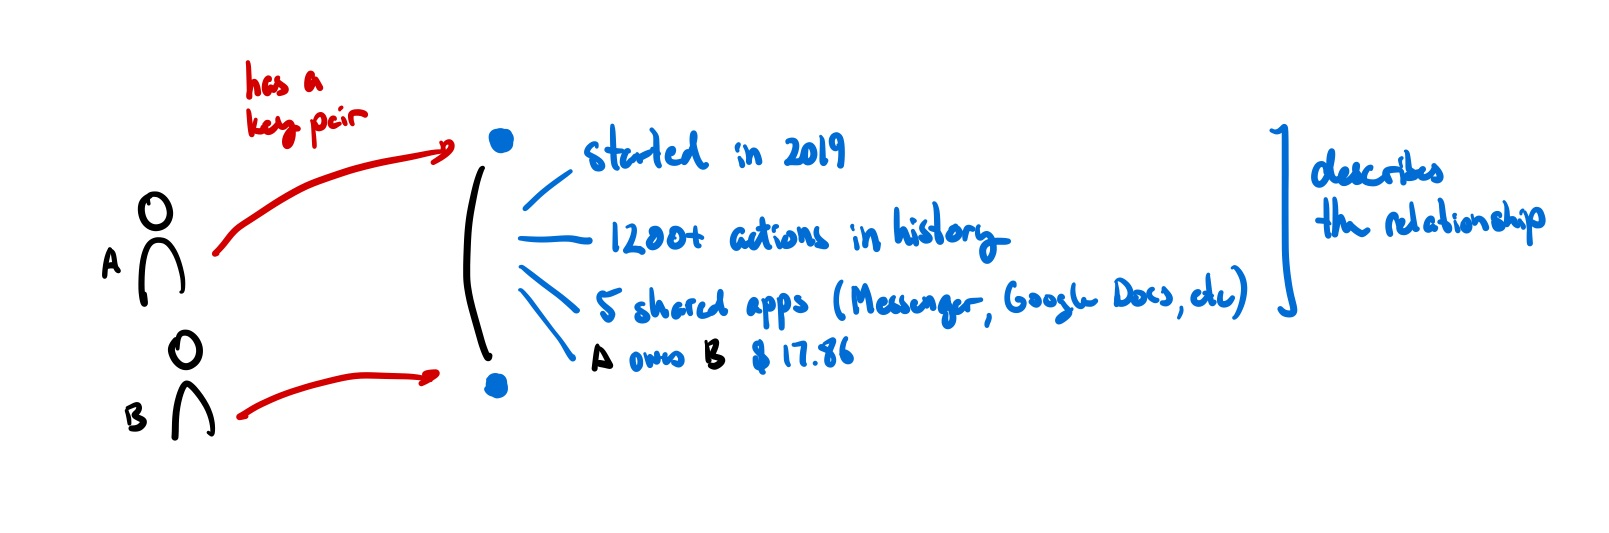
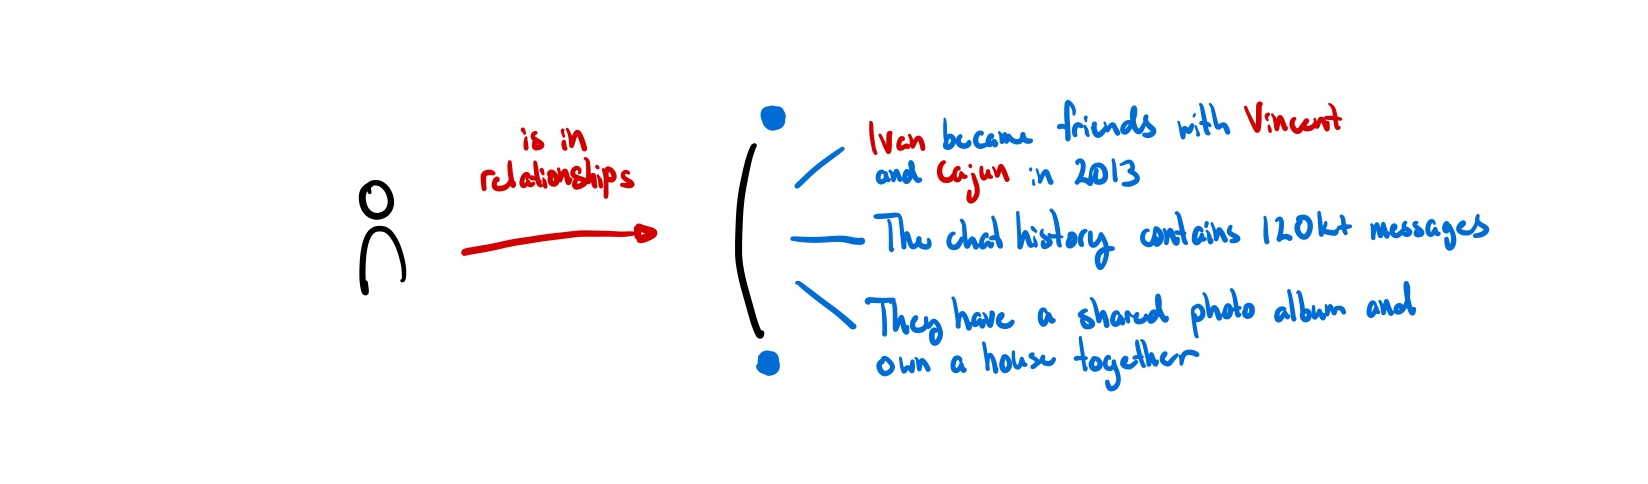
update identity post draft

diff --git a/content/posts/relational-identity.md b/content/posts/relational-identity.md
@@ -7,103 +7,97 @@ tags:
 
 *What is identity? Who defines it? Who controls it? What is its relationship to software?*
 
-Defined roughly, identity is something that is contextual, situationally adaptive, subjective, and constantly changing.
+Software developers and computer scientists have been tackling identity for almost half a century now, trying to model identity in ways that are understandable to machines. Different models seek to emulate different aspects of the identity.
 
-It is made up of qualities, beliefs, personality quirks, traits, and relationships that make you *you*. Yet when we gesture towards digital identity, it seems to point towards not this subjective and contextual set of relationships, but something else entirely.
+But for engineers building these digital identities, the primary focus is on *legibility*: the process of simplifying, labelling, and modelling. ISO/IEC 24760-1, the *only* formal international standard for identity, sees identity as a set of attributes to be managed[^1]. 
+
+Legibility on its own is not a bad thing. It’s how Google assembles droves of information on the web so we can search through it easily. It’s how we have transparency into the progress of public projects and initiatives by our governments.
+
+But this process of legibility becomes dangerous when it is forced upon users. When legibility becomes the lens you view the world through, relationships are front-run by a deluge of data rather than formed more organically between individuals[^2]. We emerge in a world that comes straight from Black Mirror's Nosedive episode where everyone’s status is determined by a ‘social media score’. This systemized legibility of the world is an interpretive and transformational force that changes how we perceive others in ways that feel flat and transactional[^3].
+
+In the process of legibility, nuance is excluded. Legibility means that ‘only what matters’ and can be quantified is kept; all else is discarded. This is extremely dangerous when that legibility happens without the choice of the users.
+
+![[thoughts/images/forest death.png]]*Illegible natural forest vs legible "scientific" forest (James C. Scott in Gordon Brander)[^4-1]*
+
+Forced legibility may look like a passing or failing grade in a class without an accompanying note explaining how you missed the final because you needed to grieve for the death of a loved one. Forced legibility may look like a conviction charge without the context behind how the officer was racially motivated. When legibility is forced upon people, it only serves to widen the gulf that already exists in society and disproportionately impacts marginalized groups[^2]. This legibility is beneficial for companies and governments seeking to better model users and data, but it doesn’t serve users who seek to govern their own identities and control who accesses their information.
+
+I want to live in a world where it is possible to have different levels of granularity of information that is made legible for a messaging app versus a government portal versus interacting with my employer. With the way the web is set up currently, these are difficult to separate.
+
+If we want to flip access control back to the users, we need to consider other representations of identity. Clearly, it doesn't make sense to try to make every part of our digital identities legible. **Can we develop alternate systems that provide rich models of identity that allow people to be illegible? Or at least self-selectively legible?**
+
+This essay seeks to explore alternate abstractions for identity to better resolve the identity needs of *all* relevant stakeholders, not just centralized providers. We can categorize digital identity models based on the primary representation of identity along with the locus of control (managed versus self-sovereign).
+
+|Identity as...|Managed|Self-sovereign|
+|-|-|-|
+|Attributes|Video game character, e-shopping account, TikTok|Verifiable Claims, NFTs|
+|Capabilities|IAM (Identity and Access Management)|OAuth Tokens, UCANs|
+|Relationships|Messenger, Whatsapp|???|
+*Fig 1: Different models of digital identity.*
+
+What are ways we can lean towards self-sovereign models of identity? How do we give users freedom to choose how legible they are online?
+
+To do so, let us explore what managed identity even is first.
 
 ## Identity as Attributes
 
-![[thoughts/images/identity-object.png]]
+![[thoughts/images/identity-attribute.png]]
+Our digital representations consist of:
+-   What we bought last time we visited Amazon;
+-   All the files you’ve uploaded to Google Drive;
+-   Google Analytics data points about what pages we visited and when;
+-   What type of videos we watched on TikTok over the past week.
 
-Software developers and computer scientists have been tackling this for almost half a century now, trying to model identity in ways that are understandable to machines, but in doing so, forget the very nature of identity we live out in the real world.
+Most data models default to this assumption of identity as objects with attributes. Almost all programming languages model things, including people, this way. Databases are similar, either being documents with attributes or rows in a table. Relations are encoded as references to other documents, not as things in and of themselves.
 
-Our digital representations consist of
-- What we bought last time we visited Amazon.
-- All of our Facebook, Instagram, and Twitter posts.
-- Google Analytics data points about what pages we visited and when.
-- The hundreds, maybe thousands, of online accounts you have scattered around the internet, made hastily so you can access an article, use a service, or leave a review.
+When we model identity as a collection of attributes, all aspects of identity are, by default, quantifiable and measurable.
 
-Notice that in this form, all aspects of identity are quantifiable. Identity, in this model, is a thing to be managed, sold, or searched for. Links and relations in this model are secondary, expressed as joins between tables in databases or identifying users through 'unique' identifiers like email addresses, cookies, IP addresses and advertising identifiers: all things that are machine legible but unusable for anyone 
-
-> [The attribute model of identity] ignores the consequences of common identification across different systems for the sake of simplicity and feature management. It also ignores how that data came to be, what is done with it, and how it is governed. In effect, it focuses on the bits and bytes and not on the processes involved. (Five Mental Models of Identity)[^8]
-
-[^8]: Source: [Five Mental Models of Identity](https://github.com/WebOfTrustInfo/rwot7-toronto/blob/master/final-documents/mental-models.pdf), presented in *Rebooting the Web of Trust VII* by Joe Andrieu, Nathan George, Andrew Hughes, Christophe MacIntosh, and Antoine Rondelet
-
-Big companies make identities legible so that they may measure, manage, and control our attention to optimize their ad revenue and sell our data.
-
-**What’s measured gets managed. What’s legible gets controlled.**
-
-Legibility on its own is not a bad thing. Many aspects of our lives benefit from legibility. It the complex systems of weather understandable to the average layperson, allows us to have transparency into the progress of public projects and initiatives by our governments, and enables people to easily find information they are looking for.
-
-But this process of legibility becomes dangerous when the simplifications are taken to be the real thing and the map is mistaken for the territory.
-
-### Maps and Territories
-Through this process of legibility, what James C. Scott calls a process of simplifying, restructuring, and labeling, nuance is excluded. Legibility means that 'only what matters' and can be quantified is kept; all else is discarded.
-
-![[thoughts/images/forest death.png]]*Illegible natural forest vs legible "scientific" forest (James C. Scott in Gordon Brander)[^6]*
-
-[^6]: "Scott details a pattern of disaster that repeatedly manifests around legibility. His opening example is from the late-18th century discipline of “scientific forestry”. A natural forest is illegible. A tangle of plants. This is inconvenient from the standpoint of harvesting lumber. How do you quantify yield? Can you even make a meaningful map of this mess? Much easier to clear the forest and plant a legible “scientific” forest. Uniform rows of trees that produce good lumber. Now we can count the trees, make a map, track sustainable yield. What’s missing from our map? Everything else. The forest has been _made legible_ to lumber production. In the process, the entire ecological web of trees, shrubs, birds, bugs, moss, soil microbiota are stripped away. They didn’t fit into our map. By the second generation of planting, there is a noticeable decline in forest health. Within one century: _Waldsterben_, forest death, ecological collapse." Quote from [Soulbinding Like a State](https://subconscious.substack.com/p/soulbinding-like-a-state), Gordon Brander
-
-But who are these god-like entities to tell us what is important and what isn't? Legibility doesn't capture the context behind how you failed out of your diploma because you needed to grieve for the death of a loved one. Legibility doesn't capture the context behind the conviction for a felony that was given because the officer was racially motivated. This simplification will only serve to widen the gulf that already exists in society and disproportionately impacts marginalized groups[^1].
-
-Processes of legibility become more actively dangerous when they go from "making sense of the world" to "making the world make sense".
-
-When this is the *only* lens you view the world through, relationships are front-run by a deluge of data rather than formed more organically between individuals[^1]. We emerge in a world that comes straight from Black Mirror's Nosedive episode where everyone's status is determined by a 'social media score'. This systemized legibility of the world is an interpretive and transformational force. In other words, **legibility changes the world we live in**[^2].
-
-[^1]: Source: [Is "acceptably non-dystopian" self-sovereign identity even possible?](https://blog.mollywhite.net/is-acceptably-non-dystopian-self-sovereign-identity-even-possible/), Molly White
-[^2]: Source: [To Live in Their Utopia](https://dl.acm.org/doi/fullHtml/10.1145/3411764.3445740), Ali Alkhatib
-
-Having individuals completely own their identities (e.g. [[thoughts/Self-sovereign Identity (SSI)|SSI]] and [[thoughts/Verifiable Credential|VCs]]) doesn't solve this either. It might give agency to people to control these representations but the main function of these identities is still *to make the bearer legible*.
-
-If we want to flip access control back to the users, we need to consider other representations of identity.
-
->  Can we build networked software that allows people to be illegible? Or at least self-selectively legible?
-
-[^3]: Source: [Soulbinding Like a State](https://subconscious.substack.com/p/soulbinding-like-a-state), Gordon Brander
+Having individuals completely own their identities (e.g. [[thoughts/Self-sovereign Identity (SSI)|Self-sovereign Identity (SSI)]] and [[thoughts/Verifiable Credential|Verifiable Credentials (VCs)]]) gives agency to people to control these representations but the main function of these identities is still to make the bearer legible.
 
 ## Identity as Capabilities
 
-![[thoughts/images/identity-action.png]]
+![[thoughts/images/identity-capability.png]]
 
-When I think about what identity ultimately feels useful for, it is to gesture at *capabilities* rather than attributes. My identity can also be represented by how I act and what I have permission to do. Gordon Brander suggests similarly: "digital identity should not be about who you are, but what you are authorized to do."[^3] 
+When I think about what identity ultimately feels useful for, it is to gesture at *capabilities* rather than attributes. My identity can also be represented by how I act and what I have permission to do. Gordon Brander suggests similarly: "digital identity should not be about who you are, but what you are authorized to do."[^5] 
 
-> "[Verb-like conceptualizations of identity] consider it to be dynamic, multiple, informational, temporary, contextual. Whereas the noun-like conceptualizations attach actions and interactions to actors, the verb-like recognise that identity is co-emergent with actions and interactions in contexts."
-
-[^4]: Source: [Human identity: the number one challenge in computer science](https://generative-identity.org/human-identity-the-number-one-challenge-in-computer-science/), AKASHA Foundation and Kernel
-[^5]: Source: *Mind and nature: a necessary unity*, Gregory Bateson.
+> "[A model of identity as capabilities] considers it to be dynamic, multiple, informational, temporary, contextual. Whereas the [model of identity as attributes] attach actions and interactions to actors, the [capability model] recognises that identity is co-emergent with actions and interactions in contexts." (AKASHA and Kernel[^6])
 
 From a software perspective, this isn't a new representation of digital identity either. [[thoughts/UCAN|UCAN]] serves to be a promising way to delegate permissions and actions through a [[thoughts/DID|decentralized identity]]. JWTs have been granting permissions to users for a decade. New forms of token-based access using NFTs are being experimented with.
 
 > Everything that a user is allowed to do is captured directly in a key or token, and can be sent to anyone that knows how to interpret this format. _([ucan.xyz](https://ucan.xyz/))_
 
-There is no 'identity' to be managed but rather a set of capabilities to be possessed. Public-key cryptography means that there isn't any sort of global registry of identities[^6]. There is no easy way to figure out all the information related to one identity unless that person purposefully makes it legible.
+There is no ‘identity’ to be managed but rather a set of capabilities to be possessed. Signable messages using public-key cryptography means that we can prove the same person you issued the access token to is now requesting access without revealing who it is. As there is no global registry of who has what permissions, this is by default illegible unless a user wants to manually publish their key to make it known.
 
-[^6]: For those familiar with [[thoughts/Zooko's Triangle|Zooko's Triangle]], this is a secure + decentralized ID.
+This feels promising. A token that grants access isn’t making legible any information that doesn’t need to be, it just grants access to whoever has it. It grants a basic level of illegibility to those who prefer to keep real-world identities and digital ones seperate.
 
-This feels promising. A token that grants access isn't making legible any information that doesn't need to be, it just grants access to whoever has it. It grants a basic level of illegibility to those who prefer not to link real-world identities to digital ones.
-
-Yet, I think there is still room for improvement here. Identities based off of tokens and keys aren't human-meaningful. In gaining the option for illegibility, we've lost any resemblance of a human identity. I want to know that I'm talking to my friend Kevin and not just a key like `0x8ff6b283368b5f149f1de2005d763243` or a phone number like `323-594-1604`[^7].
-
-[^7]: Systems like ENS get most of the way there (achieving all three properties of Zooko's Triangle until [[thoughts/fault tolerance#Byzantine Faults|Byzantine fault tolerance]]), providing human-meaningful names on top of secure + decentralized identifiers.
+Yet, I think there is still room for improvement here. Identities based off of tokens and keys aren't human-meaningful. In gaining the option for illegibility, we've lost any resemblance of a human identity. I want to know that I'm talking to my friend Kevin and not just a key like `0x8ff6b283368b5f149f1de2005d763243` or a phone number like `323-594-1604`.
 
 ## Identity as Relationships
 
 ![[thoughts/images/identity-relationship.png]]
 
-> Humans also need to communicate securely with other humans, and in so doing, securely designate various objects, including yet other humans. Unfortunately, due to their peculiar nature, humans are unable to memorize large numbers of keys, and use them as names for a multitude of objects.
+> "Unfortunately, due to their peculiar nature, humans are unable to memorize large numbers of keys, and use them as names for a multitude of objects."[^7]
 
 You are already most likely familiar with a system for 'memorizing' these large keys already. All of our phones have a personal address book that we use to map meaningless phone numbers to human-meaningful names. HCI researchers call systems like these [[thoughts/Zooko's Triangle#Petnames|petname systems]].
 
 > For example, if you meet someone named Becky who plays trombone, you could name her “Becky Trombone” and someone else could name her “Becky 101B.” This personal relationship is more recognizable to each individual than a single, self-described user profile named “Becky Smith.” Instead of a single global contact list (like Facebook), we want many personal contact lists (like phonebooks). *([Backchannel](https://www.inkandswitch.com/backchannel/), Ink & Switch)*
 
-In this way, the petname doesn't just represent the person you are referring to also the relationship between the two of you. The *real identity* is neither the phone number nor the petname. Rather, their real identity is the *intersection* of all of the relationships they have with others. Just as we have many 'alt accounts' or 'finstas' that try to approximate the many facets of our being, we should also embrace the natural tendency for different expressions of ourselves through our many relationships.
+In this way, the petname doesn't just represent the person you are referring to, but also the relationship between the two of you. The *real identity* is neither the phone number nor the petname. Rather, their real identity is the *intersection* of all of the relationships they have with others. Just as we have many 'alt accounts' or 'finstas' that exist to approximate the many facets of our being, we should also embrace the natural tendency for different expressions of ourselves through our many relationships.
 
-The key thing in a relational notion of identity is that the relation -- the 'join' between identities -- is a thing in and of itself. It can be described, and it has a history which can be built on top of.
+The key thing in a relational notion of identity is that the relation – the ‘join’ between identities – is a thing in and of itself. It can be described, and it has a history which can be built on top of. This is a relation that is private by default (only between parties involved) and unique (no other relation like this exists).
 
-We can use this as the basis for any app that involves relations:
-- A group chat can be modelled as an n-to-n relationship between a group of people. In this context, each member has their own group-chat-specific petname which can be used to refer to other members and address content.
-- A personal note-taking app might be modelled as a 1-to-1 relationship with yourself with a history log of all the notes you've written.
+**The new atom of identity is not a single entity but a group chat. A chat that isn’t just a text messaging history but can embed applications and rich worlds on top of it.**
 
-Identity may be a difficult thing to model, but it is worth thinking about intensely. Our models for identity will impact how many future generations of internet users are categorized, made legible, and modelled and it makes sense to ensure it best serves the people it represents.
+Identity may be a difficult thing to model, but it is worth thinking about deeply. Our models for identity will impact how many future generations of internet users are categorized, made legible, and modeled and it makes sense to ensure it best serves the people it represents.
 
-As [[thoughts/peer-to-peer|peer-to-peer]] and [[thoughts/local-first software|local-first]] apps slowly make a resurgence, I hope that relational notions of identity are at the forefront, enabling users to choose which parts of themselves to make legible and foster connections that feel *real* and human rather than extractive and limiting.
+As [[thoughts/peer-to-peer|peer-to-peer]] and [[thoughts/local-first software|local-first]] apps slowly make a resurgence, I hope that optional legibility and agency are values at the forefront of new applications and protocols, enabling users to choose which parts of themselves to make legible and foster connections that feel real and human rather than extractive and limiting.
+
+*Thank you to Anson Yu, B Cavello, Cent Hosten, Saffron Huang, Shrey Jain for reading earlier drafts and providing clarifying feedback.*
+
+[^1]: Source: [ISO Standard](https://www.iso.org/standard/77582.html)
+[^2]: Source: [Is "acceptably non-dystopian" self-sovereign identity even possible?](https://blog.mollywhite.net/is-acceptably-non-dystopian-self-sovereign-identity-even-possible/), Molly White
+[^3]: Source: [To Live in Their Utopia](https://dl.acm.org/doi/fullHtml/10.1145/3411764.3445740), Ali Alkhatib
+[^4]: Source: [Soulbinding Like a State](https://subconscious.substack.com/p/soulbinding-like-a-state), Gordon Brander
+[^4-1]: "Scott details a pattern of disaster that repeatedly manifests around legibility. His opening example is from the late-18th century discipline of “scientific forestry”. A natural forest is illegible. A tangle of plants. This is inconvenient from the standpoint of harvesting lumber. How do you quantify yield? Can you even make a meaningful map of this mess? Much easier to clear the forest and plant a legible “scientific” forest. Uniform rows of trees that produce good lumber. Now we can count the trees, make a map, track sustainable yield. What’s missing from our map? Everything else. The forest has been _made legible_ to lumber production. In the process, the entire ecological web of trees, shrubs, birds, bugs, moss, soil microbiota are stripped away. They didn’t fit into our map. By the second generation of planting, there is a noticeable decline in forest health. Within one century: _Waldsterben_, forest death, ecological collapse." Quote from [Soulbinding Like a State](https://subconscious.substack.com/p/soulbinding-like-a-state), Gordon Brander
+[^5]: Source: [Five Mental Models of Identity](https://github.com/WebOfTrustInfo/rwot7-toronto/blob/master/final-documents/mental-models.pdf), presented in *Rebooting the Web of Trust VII* by Joe Andrieu, Nathan George, Andrew Hughes, Christophe MacIntosh, and Antoine Rondelet
+[^6]: Source: [Human identity: the number one challenge in computer science](https://generative-identity.org/human-identity-the-number-one-challenge-in-computer-science/), AKASHA Foundation and Kernel
+[^7]: Source: [PetName Markup Language](http://www.erights.org/elib/capability/pnml.html) by Mark S. Miller et. al

diff --git a/content/thoughts/Rhizome Research Log.md b/content/thoughts/Rhizome Research Log.md
@@ -9,6 +9,20 @@ tags:
 I think research logs tend to generally focus too much on what one did rather than what one felt. This log aspired to have a healthy mix of both.
 
 ## July
+### July 21st
+- Polishing up [[posts/relational-identity|identity piece]]. I've worked on it enough that I'm starting to feel ick just touching it but I'm happy that I've thought about this deeply. Implications for Rhizome as a whole:
+	- Self-sovereignty seems useful for agency *if implemented in ways that don't force legibility*
+		- e.g. be careful about [[thoughts/Verifiable Credential|VCs]] without zkSNARKS
+	- Probably will need to think more heavily about how to model a relation history on the dev side of things as people are used to modelling individual users. Perhaps phrasing the basic item as a *group chat* makes sense?
+	- **The new atom of identity is not a single entity but a group chat. A chat that isn’t just a text messaging history but can embed applications and rich worlds on top of it.**
+
+### July 20th
+- Finally got the piece to a place where it is ready for feedback. B, Shrey, and Saffron took a look and left a bunch of comments which identified plenty of spots where either my reasoning was flawed or just wasn't good.
+	- Revision time !! 🙃
+- Feel like I haven't been very proactive in thinking about funder relations.
+	- Found out today that GitHub has a very handy feature to email all of your sponsors!
+	- Will probably draft up a short update email and include a link to the identity piece as soon as it's done.
+
 ### July 19th
 - Slowly reaching a place where I'm happy with the direction of this piece on identity, framing it more around 3 modes of thinking about [[posts/relational-identity|identity]].
 - Got a comment from Zoë Ruha Bell on my essay in Reboot that asked about "the complexities of how moving data between contexts changes its meaning and that individual control over data may not match up well with the relational information encoded in data"

diff --git a/content/thoughts/identity.md b/content/thoughts/identity.md
@@ -61,9 +61,10 @@ extension of https://subconscious.substack.com/p/soulbinding-like-a-state?s=r&cu
 	- In other words, the dots (the nodes, the people) don’t simply define the joins (the edges, the relationships) as Social Networking 101 might have it. We dot the joins in contextual information exchange just as much as we might be said to join the dots. The joins are the pathways for information exchange and transformation, for organising, and the expansion of organisational identity. Joins give the dots their meaning, their contextual relevance, their identity, just as dots give the information exchange direction and potency. 
 	- not who you are, but what you are authorized to do. So, Keys, not IDs.
 
-
 - identity constantly shifts in real life depending on who you are around
 - we try to approximate this using multiple accounts -> prevent context collapse
 - but identity shouldnt feel like different accounts you hop between different digital platforms
 - identity should be the principles of your experience -> applicable across contexts
 - digital identity should enable novel interactions, not try to simplify existing ones
+- identity systems rely on the concentration of power in the hands of operators who cannot possibly be fully aligned (financially, socially, or morally) with all of their users—for example, private social media companies with diverse global audiences must often [make decisions](https://blog.twitter.com/en_us/topics/company/2020/suspension) about what constitutes an act of unjustified censorship versus an act in the interest of public safety, though they are often ill-equipped to do so.
+	- from 0xPARC on zk-identity

diff --git a/content/thoughts/Self-sovereign Identity (SSI).md b/content/thoughts/Self-sovereign Identity (SSI).md
@@ -7,11 +7,19 @@ tags:
 
 Self-sovereign identity (SSI) is an approach to digital identity that gives individuals control of their digital identities
 
+> "Identity is a uniquely human concept; however modern society view this concept of identity as state-issued credentials as driver's license and social security cards, which suggests a person can lose his very identity if a state revokes his credentials or even if he just crosses state borders." (Christopher Allen)
+
 Identities are required for trust to be established (Party A needs to ensure Party B is actually who they claim to be and vice versa).
 
 In centralized identity paradigms, this is usually done through authorities (e.g. [[thoughts/security#Certification Authorities CA|Certification Authorities]]) who are trusted by both parties.
 
 In SSI systems, holders have control over unique identifiers (decentralized identifiers). These can be verified using public-key cryptography and anchored on some sort of distributed ledger (e.g. [[thoughts/blockchain|blockchain]])
+
+## Why SSI matters to the average citizen
+- Avoid a million accounts to log into
+	- SSI federates logins to various services and applications
+- Granular access permissions for content
+- Data provenance through signatures, can request takedowns as proving ownership is trivial
 
 ## Critiques of SSI
 [Source: Molly White](https://blog.mollywhite.net/is-acceptably-non-dystopian-self-sovereign-identity-even-possible/)
